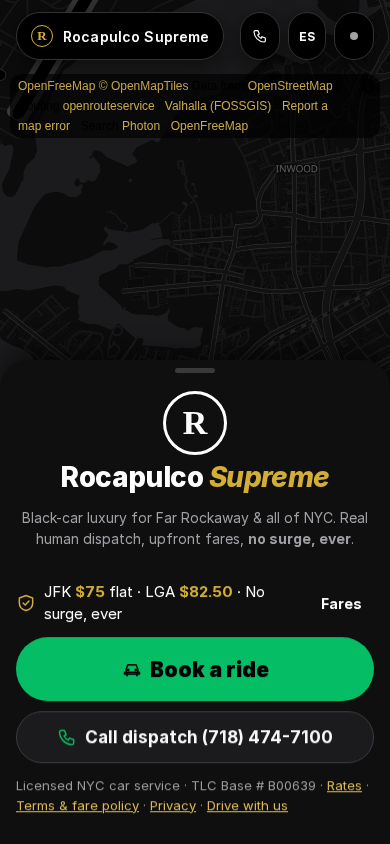
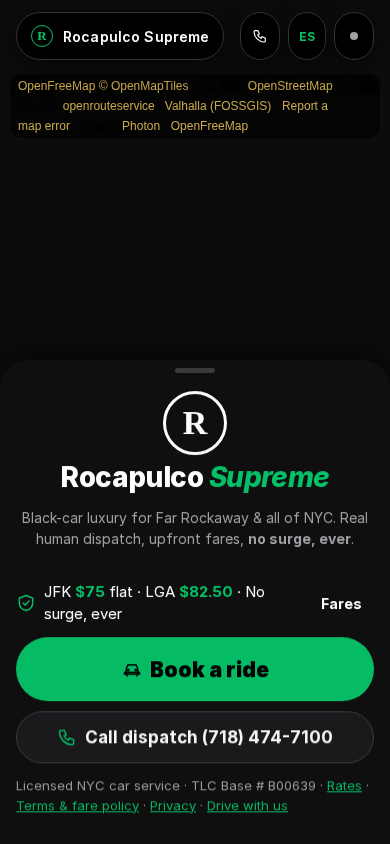
Highbeam on dispatch + owner guide; gold accents to Highbeam; remove personal name from public copy; gate specs (dispatch 390/412/1280, WebKit option); before/after shots; sw rs-v26

diff --git a/privacy.html b/privacy.html
@@ -7,7 +7,7 @@
 <h2>Driver applications</h2><p>If you apply to drive, we keep your name, phone, email, license and vehicle details, and the document photos you upload, so dispatch can review them. Only Rocapulco dispatchers can see them. Call dispatch to have an application deleted.</p>
 <h2>Location</h2><ul><li><b>Riders:</b> we ask before using your location. It sets your pickup and shows nearby cars, and is sent to your driver only during your ride. You can always type an address instead.</li><li><b>Drivers:</b> location is shared only while you are online or on a trip, after you agree on the Go online screen. Going offline stops tracking; we send one "offline" notice with no position.</li></ul>
 <h2>How we protect it (NY SHIELD Act)</h2><p>We keep a written security program for the personal data we hold: data is encrypted in transit (HTTPS/TLS); the database enforces row-level security so riders see only their own bookings and only Rocapulco dispatchers can see bookings, driver documents and applications; ride-changing messages are digitally signed so they can't be forged; staff access is invite-only and can be revoked at once; and we review access and these controls regularly. If a breach exposes your private information, we will notify you, and the New York Attorney General and other agencies as the law requires, without unreasonable delay.</p>
-<h2>Getting a copy of your data</h2><p>Your ride history and receipts are on the Wallet screen; use Share/Copy on any receipt. To get a copy of everything we hold on the server about your phone number, call dispatch or email us and we will send it within 45 days.</p><h2>Cookies &amp; storage</h2><p>We use no advertising or tracking cookies and no analytics. The app stores your settings, saved places and ride history in your browser's local storage on this device, and a sign-in token if you have a staff account. Delete my data clears it.</p><h2>Contact</h2><p>Dispatch <a href="tel:+17184747100">(718) 474-7100</a> · Email: TODO: Fan's contact email</p><h2>Deleting your account</h2><p>Delete my data (Wallet) erases this device's data now. To delete a rider account or server data, call dispatch; we delete your profile and keep trip records only for as long as TLC base record-keeping rules require.</p>
+<h2>Getting a copy of your data</h2><p>Your ride history and receipts are on the Wallet screen; use Share/Copy on any receipt. To get a copy of everything we hold on the server about your phone number, call dispatch or email us and we will send it within 45 days.</p><h2>Cookies &amp; storage</h2><p>We use no advertising or tracking cookies and no analytics. The app stores your settings, saved places and ride history in your browser's local storage on this device, and a sign-in token if you have a staff account. Delete my data clears it.</p><h2>Contact</h2><p>Dispatch <a href="tel:+17184747100">(718) 474-7100</a></p><h2>Deleting your account</h2><p>Delete my data (Wallet) erases this device's data now. To delete a rider account or server data, call dispatch; we delete your profile and keep trip records only for as long as TLC base record-keeping rules require.</p>
 <h2>Your choices</h2><ul><li><b>Delete my data</b> (Wallet screen) erases everything stored in this browser immediately.</li><li>To delete server data, call dispatch at <a href="tel:+17184747100">(718) 474-7100</a>.</li></ul>
 <p>Map data © OpenStreetMap contributors. Search: Photon. Routing: openrouteservice (HeiGIT) or Valhalla (FOSSGIS). These services receive the addresses you search and route.</p>
 </main></body></html>

diff --git a/fare.js b/fare.js
@@ -2,9 +2,9 @@
 // RATE SCHEDULE: the one place Rocapulco's rates live. 35 RCNY 59B-23(a): never quote or
 // charge more than the Rate Schedule filed with TLC. Server mirror: public.taxi_rate_schedule
 // (supabase/016_tlc_trip_records.sql); tests/tlc.test.mjs fails if the two ever differ.
-// TODO(Fan): confirm these numbers ARE the Rate Schedule on file with TLC for base B00639.
+// TODO(owner): confirm these numbers ARE the Rate Schedule on file with TLC for base B00639.
 //   Until confirmed, RATE_SCHEDULE.filedConfirmed stays false and the rates page says so.
-// Source of current numbers: Fan's Rocapulco spec (Claude chats). No surge, no extra fees.
+// Source of current numbers: the owner's Rocapulco spec (Claude chats). No surge, no extra fees.
 // ======================================================================================
 export const RATE_SCHEDULE = Object.freeze({
   version: 1, effectiveFrom: '2026-10-28', filedConfirmed: false,
@@ -12,7 +12,7 @@ export const RATE_SCHEDULE = Object.freeze({
   suvMultiplier: 1.5, // Black SUV = every Sedan rate x 1.5
   priceMultiplier: false, // no surge / variable pricing, ever
   extraFees: Object.freeze([]), // no booking, service, WAV, airport or cancellation fees
-  tollsNote: 'Tolls are not part of the quote; if your route has a toll it is paid to the driver at actual cost, no markup', // TODO(Fan): confirm the filed schedule passes tolls through at cost
+  tollsNote: 'Tolls are not part of the quote; if your route has a toll it is paid to the driver at actual cost, no markup', // TODO(owner): confirm the filed schedule passes tolls through at cost
 });
 export const RATES = { base: RATE_SCHEDULE.sedan.base, perMile: RATE_SCHEDULE.sedan.perMile, perMinute: RATE_SCHEDULE.sedan.perMinute, minimum: RATE_SCHEDULE.sedan.minimum };
 export const FLAT_RATES = { jfk: RATE_SCHEDULE.sedan.jfk, laguardia: RATE_SCHEDULE.sedan.laguardia };
@@ -23,7 +23,7 @@ export const ratesFor = (vclass = 'sedan') => { const k = CLASS_MULT[vclass] || 
 export const SURGE_CAP = 1; // no surge, ever
 export const DRIVER_SHARE = 0.70;
 export const DISPATCH_PHONE = '(718) 474-7100', DISPATCH_TEL = '+17184747100';
-// TLC for-hire base license number: Fan to provide. Leave '' until then (shows as a blank line).
+// TLC for-hire base license number: owner to provide. Leave '' until then (shows as a blank line).
 export const TLC_BASE = 'B00639';
 export const PAYMENTS = { cash: 'Cash', card: 'Card', zelle: 'Zelle', venmo: 'Venmo' };
 const r2 = r2_;
@@ -68,4 +68,4 @@ export const POPULAR = [
   { k: 'Hospital', label: "St. John's Episcopal Hospital, Far Rockaway", lat: 40.5986, lng: -73.7520 },
   { k: 'Mall', label: 'Green Acres Mall, Valley Stream', lat: 40.6620, lng: -73.7240 },
 ];
-export const ORS_KEY = ''; // Fan: free openrouteservice key (account.heigit.org, Standard plan permits commercial use). Empty = interim Valhalla + estimates.
+export const ORS_KEY = ''; // Owner: free openrouteservice key (account.heigit.org, Standard plan permits commercial use). Empty = interim Valhalla + estimates.

diff --git a/app.js b/app.js
@@ -16,7 +16,7 @@ const Q = new URLSearchParams(location.search);
 // deep links: ?to=JFK&car=suv&ref=CODE work in the query or after the hash (#/rider?to=LGA)
 const DL = new URLSearchParams([...Q, ...new URLSearchParams(location.hash.split('?')[1] || '')]);
 const SITE_URL = 'https://ace9x.github.io/rocapulco-supreme-web/';
-const GOOGLE_REVIEW_URL = ''; // Fan: paste the Google Business review link here; the button stays hidden until then
+const GOOGLE_REVIEW_URL = ''; // Owner: paste the Google Business review link here; the button stays hidden until then
 const myRef = () => { let c = localStorage.getItem('qc_myref'); if (!c) { c = 'R' + Array.from(crypto.getRandomValues(new Uint8Array(5)), b => '23456789ABCDEFGHJKMNPQRSTUVWXYZ'[b % 31]).join(''); localStorage.setItem('qc_myref', c); } return c; };
 { const r = (DL.get('ref') || '').toUpperCase().replace(/[^A-Z0-9-]/g, '').slice(0, 12); if (r && r !== localStorage.getItem('qc_myref') && !localStorage.getItem('qc_ref_in')) localStorage.setItem('qc_ref_in', JSON.stringify({ code: r, at: new Date().toISOString() })); }
 const refLink = (code = myRef()) => SITE_URL + '?ref=' + encodeURIComponent(code);
@@ -126,7 +126,7 @@ async function route(a, b) {
   const r = await route0(a, b); if (r.real) { RC.set(k, { t: Date.now(), r }); if (RC.size > 200) RC.delete(RC.keys().next().value); } return r;
 }
 // Routing providers, in order. OSRM's public demo server is not used (its policy forbids production use).
-// 1) openrouteservice (HeiGIT) — free Standard plan allows commercial use (2,000 routes/day). Needs Fan's free key in fare.js ORS_KEY.
+// 1) openrouteservice (HeiGIT) — free Standard plan allows commercial use (2,000 routes/day). Needs the owner's free key in fare.js ORS_KEY.
 // 2) FOSSGIS Valhalla — interim only: identified with X-Client-Id and throttled to 1 request/second per device.
 // 3) straight-line estimate, clearly labeled approximate.
 async function ors(a, b) {
@@ -977,7 +977,7 @@ function phoneBooking(onBooked) {
     pu = de = q = null; ['#phpu', '#phde', '#phnote'].forEach(x => $(x).value = ''); $('#phq').textContent = ''; };
 }
 // TLC trip records (35 RCNY 59B-19): the server builds B00639_yyyymmdd-yyyymmdd.csv monthly (2nd, 6 AM NY);
-// Fan uploads it on TLC UP (or SFTP) and signs the affirmation there. Due the last day of the following month.
+// The owner uploads it on TLC UP (or SFTP) and signs the affirmation there. Due the last day of the following month.
 async function tlcReportsPanel(box) {
   if (!box) return; const c = await import('./cloud.js'), t = await import('./tlc.js');
   const draw = async (msg = '') => { let xs; try { xs = await c.tlcReports(); } catch (e) { box.innerHTML = `<p class="err">TLC reports: ${esc(e.message)}</p>`; return; }

diff --git a/sw.js b/sw.js
@@ -1,4 +1,4 @@
-const C = 'rs-v25', SHELL = ['owner.js', 'owner-guide/', 'rates.html', 'rates-page.js', 'tlc.js', 'share.html', 'share.js', 'vendor/supabase.js', 'hours.js', 'sign.js', 'places.js', 'i18n.js', 'vendor/qrcode.js', 'driver/join/', 'driver/join/index.html', 'driver/join/es.html', 'driver/join/apply.html', 'driver/join/apply.js', 'driver/join/join.css', 'driver/', 'driver/index.html', 'driver/manifest.json', 'dispatch/', 'dispatch/index.html', 'dispatch/manifest.json', 'tokens.css', 'ui.css', 'highbeam.css', 'icons.js', 'learn.js', './', 'index.html', 'style.css', 'app.js', 'cloud.js', 'fare.js', 'dispatch.js', 'transport.js', 'manifest.json', 'icons/icon.svg', 'vendor/nostr.js', 'data.js', 'map.js', 'privacy.html', 'terms.html', 'legal.css', 'art/rocapulco-car-marker.svg', 'art/rocapulco-car-side.svg', 'art/rocapulco-car-3q.svg'];
+const C = 'rs-v26', SHELL = ['owner.js', 'owner-guide/', 'rates.html', 'rates-page.js', 'tlc.js', 'share.html', 'share.js', 'vendor/supabase.js', 'hours.js', 'sign.js', 'places.js', 'i18n.js', 'vendor/qrcode.js', 'driver/join/', 'driver/join/index.html', 'driver/join/es.html', 'driver/join/apply.html', 'driver/join/apply.js', 'driver/join/join.css', 'driver/', 'driver/index.html', 'driver/manifest.json', 'dispatch/', 'dispatch/index.html', 'dispatch/manifest.json', 'tokens.css', 'ui.css', 'highbeam.css', 'highbeam-doc.css', 'icons.js', 'learn.js', './', 'index.html', 'style.css', 'app.js', 'cloud.js', 'fare.js', 'dispatch.js', 'transport.js', 'manifest.json', 'icons/icon.svg', 'vendor/nostr.js', 'data.js', 'map.js', 'privacy.html', 'terms.html', 'legal.css', 'art/rocapulco-car-marker.svg', 'art/rocapulco-car-side.svg', 'art/rocapulco-car-3q.svg'];
 self.addEventListener('install', e => { e.waitUntil(caches.open(C).then(c => c.addAll(SHELL))); self.skipWaiting(); });
 self.addEventListener('activate', e => e.waitUntil(caches.keys().then(ks => Promise.all(ks.filter(k => k !== C).map(k => caches.delete(k))))));
 self.addEventListener('fetch', e => { const u = new URL(e.request.url); if (u.origin !== location.origin) return;

diff --git a/dispatch/index.html b/dispatch/index.html
@@ -4,7 +4,7 @@
 <title>Rocapulco Dispatch</title><meta name="description" content="Rocapulco Dispatch: invite-only staff app for Rocapulco Supreme.">
 <link rel="manifest" href="manifest.json"><link rel="icon" href="../icons/icon.svg"><link rel="apple-touch-icon" href="../icons/icon-192.png">
 <link rel="stylesheet" href="https://unpkg.com/maplibre-gl@4.7.1/dist/maplibre-gl.css" integrity="sha384-MinO0mNliZ3vwppuPOUnGa+iq619pfMhLVUXfC4LHwSCvF9H+6P/KO4Q7qBOYV5V" crossorigin="anonymous">
-<link rel="preconnect" href="https://fonts.gstatic.com" crossorigin><link rel="stylesheet" href="https://fonts.googleapis.com/css2?family=Playfair+Display:ital,wght@0,600;1,600&display=swap"><link rel="preconnect" href="https://rsms.me"><link rel="stylesheet" href="https://rsms.me/inter/inter.css"><link rel="stylesheet" href="../tokens.css"><link rel="stylesheet" href="../style.css"><link rel="stylesheet" href="../ui.css">
+<link rel="preconnect" href="https://fonts.gstatic.com" crossorigin><link rel="stylesheet" href="https://fonts.googleapis.com/css2?family=Playfair+Display:ital,wght@0,600;1,600&display=swap"><link rel="preconnect" href="https://rsms.me"><link rel="stylesheet" href="https://rsms.me/inter/inter.css"><link rel="stylesheet" href="../tokens.css"><link rel="stylesheet" href="../style.css"><link rel="stylesheet" href="../ui.css"><link rel="stylesheet" href="../highbeam.css">
 <script src="https://unpkg.com/maplibre-gl@4.7.1/dist/maplibre-gl.js" integrity="sha384-SYKAG6cglRMN0RVvhNeBY0r3FYKNOJtznwA0v7B5Vp9tr31xAHsZC0DqkQ/pZDmj" crossorigin="anonymous"></script>
 <script src="../map.js"></script>
 <script src="https://unpkg.com/mqtt@5.10.1/dist/mqtt.min.js" integrity="sha384-u4uqeACkFcoKl57rBQJHVGDd1pqhW4w8X3WjTu1ZksPdxoLqdt34jpoNkJisE25W" crossorigin="anonymous"></script>

diff --git a/highbeam.css b/highbeam.css
@@ -50,3 +50,21 @@ input:focus,select:focus{outline:2px solid var(--signal);outline-offset:1px}
 .maplibregl-popup-content{background:#fff;color:#000;border-radius:12px;font:600 15px Inter,system-ui,sans-serif}
 @media (prefers-reduced-motion:reduce){#sheet,.btn{transition:none!important}}
 .field button{width:44px;height:44px}
+/* dispatch + owner (inside dispatch app) */
+.qtabs{border-radius:999px;background:#1C1C1E;border:0}
+.qtabs button,.qtabs a{border-radius:999px;min-height:44px}
+.qtabs .on,.qtabs [aria-selected=true]{background:#fff!important;color:#000!important}
+.qfare,body[data-app=driver] .price,body[data-app=dispatch] .price{color:#fff;font-variant-numeric:tabular-nums;font-weight:800}
+@media(min-width:800px){#sheet{border-radius:28px;box-shadow:var(--sh-float)}}
+/* static owner guide */
+/* replace remaining gold accents with Highbeam white/green */
+:root,body[data-app]{--gold:#06C167;--gold2:#fff}
+.car-card[aria-checked=true]{border-color:#06C167!important;background:rgb(6 193 103/.08)!important;box-shadow:none!important}
+.car-card .vp,.price,.rc-tot,.walletsum b,.qfare,.rp-f,.mk.ride b{color:#fff!important;font-family:Inter,system-ui,sans-serif!important;font-weight:800;font-variant-numeric:tabular-nums}
+.ds-badge.flat{background:#E7F9EF!important;color:#007A3D!important;border:0!important}
+.sc.air,.sc.air b{border-color:#2A2A2D!important;color:#fff!important;background:#1C1C1E!important}
+.onb-card,.shareask,.instc,.emailacct summary,.invbox .code,.walletsum{border-color:#2A2A2D!important}
+.onb-ic,.promise>.ds-ic,.pinbox .ds-ic,.promise b{color:#06C167!important}
+.legal a,.consent a,.fine a,.langb{color:#06C167!important}
+#sheet,.card{border-color:#2A2A2D!important}
+.sugg li.kb,.sugg li:hover{color:#fff!important;background:#1C1C1E}

diff --git a/owner-guide/index.html b/owner-guide/index.html
@@ -1,4 +1,4 @@
-<!doctype html><html lang="en"><head><meta charset="utf-8"><meta name="viewport" content="width=device-width,initial-scale=1"><title>Rocapulco Supreme · Owner Guide</title><link rel="stylesheet" href="../legal.css">
+<!doctype html><html lang="en"><head><meta charset="utf-8"><meta name="viewport" content="width=device-width,initial-scale=1"><title>Rocapulco Supreme · Owner Guide</title><link rel="stylesheet" href="../legal.css"><link rel="stylesheet" href="../highbeam-doc.css">
 <style>body{font:18px/1.55 Inter,system-ui,sans-serif;max-width:760px;margin:auto;padding:24px;color:#111}h1{font-family:Georgia,serif}ol>li{margin:0 0 14px}.box{border:2px solid #d4af37;border-radius:10px;padding:12px 16px;margin:16px 0}@media print{a{color:#111}.np{display:none}}</style></head><body>
 <h1>Rocapulco Supreme · Owner Guide</h1><p>Licensed NYC car service · TLC base B00639. This guide shows you how every part of your app works. <a class="np" href="rocapulco_owner_guide.pdf">Download PDF</a></p>
 <div class="box"><h2>1. Make your owner account</h2><ol><li>Open the owner invite link you were sent. It opens <b>Rocapulco Dispatch</b>.</li><li>Tap <b>Continue with Google</b> and pick robertoroman919@gmail.com. Or tap <b>I have an invite</b>, type the code, your name, that same email and a password. Then open the email we send and tap the link.</li><li>The invite only works for your email and only one time.</li><li>After you are in, tap <b>Add a passkey</b> so next time you just use Face ID.</li></ol></div>

diff --git a/terms.html b/terms.html
@@ -12,8 +12,8 @@
 <h2>Fare disputes</h2><p>If you think you were charged more than the locked price, report it within 30 days. Dispatch checks the trip record and, if you were overcharged, arranges a refund of the difference.</p>
 <h2>Governing law</h2><p>These terms are governed by the laws of the State of New York and applicable NYC TLC rules. Nothing here limits rights you have under those rules or New York consumer law.</p>
 <h2>Contact</h2><p>Rocapulco Supreme · Dispatch <a href="tel:+17184747100">(718) 474-7100</a><span class="addr" hidden> · <span id="addr"></span></span></p>
-<!-- TODO(Fan): business mailing address and a privacy contact email (fare.js BUSINESS_ADDRESS). -->
-<p>Email: <span>TODO: Fan's contact email</span></p>
+<!-- TODO(owner): business mailing address and a privacy contact email (fare.js BUSINESS_ADDRESS). -->
+<p>Email: use Report a problem in the app, or call dispatch.</p>
 <p class="v">Not legal advice; these terms are pending review by a NY attorney.</p>
 <p>Questions: <a href="tel:+17184747100">(718) 474-7100</a>. See also our <a href="privacy.html">privacy policy</a>.</p>
 </main></body></html>

diff --git a/tlc.js b/tlc.js
@@ -1,5 +1,5 @@
 // TLC FHV trip-record CSV format (35 RCNY 59B-19; TLC CSV spec, Nov 2018 template). Used by the dispatch
-// "TLC Reports" screen to re-check every server-built file before Fan uploads it on TLC UP / SFTP.
+// "TLC Reports" screen to re-check every server-built file before the owner uploads it on TLC UP / SFTP.
 // Source: https://www.nyc.gov/site/tlc/tlc-online/fhv-trip-record-submission.page
 export const TLC_HEADER = ['dispatching_base_number', 'pickup_date', 'pickup_time', 'TLC_drivers_license_number', 'license_plate', 'affiliated_base_number', 'pickup_location_type', 'pickup_location_name', 'pickup_longitude', 'pickup_latitude', 'dropoff_date', 'dropoff_time', 'dropoff_location_type', 'dropoff_location_name', 'dropoff_longitude', 'dropoff_latitude', 'congestion_zone_flag', 'shared_request_flag', 'shared_match_flag', 'access_a_ride_flag', 'WAV_request_flag', 'request_date', 'request_time', 'originating_base_number', 'on_scene_date', 'on_scene_time'];
 export const tlcFilename = (base, start, end) => `${base}_${start.replaceAll('-', '')}-${end.replaceAll('-', '')}.csv`;

diff --git a/highbeam-doc.css b/highbeam-doc.css
@@ -1,0 +1,1 @@
+body{background:#000}a{color:#06C167}h1{font-family:Inter,system-ui,sans-serif;font-weight:800;letter-spacing:-.02em}

diff --git a/qa/v26/REPORT.md b/qa/v26/REPORT.md
@@ -1,0 +1,17 @@
+# Rocapulco Supreme rs-v26 — Highbeam on dispatch + owner screens; gold accents removed; brand audit
+Visual only (CSS + copy). No JS logic changed. TLC records, receipts, rates page untouched (rates "no surge" asserted).
+Changes
+- dispatch/index.html loads ../highbeam.css (owner home renders inside the dispatch app, same stylesheet); queue tabs as pills, prices white tabular.
+- owner-guide/ loads ../highbeam-doc.css (black, green links, Inter headline).
+- highbeam.css: remaining gold accents (selected car card, fare numbers, "Flat" badge, airport chips, links, crest) → Highbeam white/green.
+- Brand audit: removed visible "TODO: Fan's contact email" from privacy.html and terms.html (now "use Report a problem in the app, or call dispatch"); replaced "Fan" in public JS comments / README with "owner" / "Ace Apps". No personal Gmail found in public files.
+- sw rs-v25 → rs-v26 (+ highbeam-doc.css in shell).
+Local gate, Chromium (tests/highbeam-gate.spec.mjs + tests/highbeam-dispatch-gate.spec.mjs): 7/7 pass
+- Rider + driver at 390x844, 412x915 (from v25 spec).
+- Dispatch (sandbox, nothing written to server) at 390, 412, 1280: Highbeam bg; each queue tab click selects exactly that tab; all visible sheet/header buttons ≥44px, no clip, no pairwise overlap; reload; offline reload; owner guide black + PDF 200 + no horizontal scroll; rates page; 0 console errors.
+- Unit tests 34/34. carservice.spec sandbox queue test is flaky (2 of 7 runs failed "#1 of 1" vs "#2 of 2" timing; 2/2 passed on baseline) — CSS-only change, logged as flaky, not fixed.
+WebKit (real engine, Playwright webkit-2370 on Linux)
+- Installed and launches, but this box's WebKit build has no TLS ("TLS support is not available"); apt install of glib-networking failed (mirror SSL errors / proxy 500). HTTPS was shimmed through Playwright route.fetch.
+- With that shim: all layout/tap/overlap/tab/reload/offline assertions passed; console-error check FAILED with maplibre blob/createImageBitmap and "access control checks" errors that come from the shim (cross-origin re-served responses). Plain WebKit load of rider + driver on base and new code: 0 errors. Not a clean WebKit 0-error result — honest status: WebKit layout verified, WebKit console not verified.
+Known visual gap: route line on the map is still gold (painted by map.js, JS — out of a CSS-only pass).
+Before/after: qa/v26/before/*.png (rs-v24 code) vs qa/v26/*.png; v25 rider/driver/home before in qa/v25/before/.

diff --git a/README.md b/README.md
@@ -1,6 +1,6 @@
 # 🚕 Rocapulco Supreme — web app
 
-The browser/PWA rebuild of [Ace9x/rocapulco-supreme](https://github.com/Ace9x/rocapulco-supreme) (Fan's Expo + Supabase ride-hailing app for Far Rockaway). Same vision — phone sign-up, rider GPS pickup, dispatcher, driver status flow en route → arrived → on trip → completed, cash on completion, $5 + $2.50/mi + $0.40/min with JFK $45 / LGA $55 flat rates — but it runs in any browser with no app store, no Supabase project and no Twilio account.
+The browser/PWA rebuild of [Ace9x/rocapulco-supreme](https://github.com/Ace9x/rocapulco-supreme) (Ace Apps' Expo + Supabase ride-hailing app for Far Rockaway). Same vision — phone sign-up, rider GPS pickup, dispatcher, driver status flow en route → arrived → on trip → completed, cash on completion, $5 + $2.50/mi + $0.40/min with JFK $45 / LGA $55 flat rates — but it runs in any browser with no app store, no Supabase project and no Twilio account.
 
 A phone-first, installable (PWA) taxi app for NYC with **rider**, **driver** and **dispatcher** views — live in your browser, no install or account required.
 
